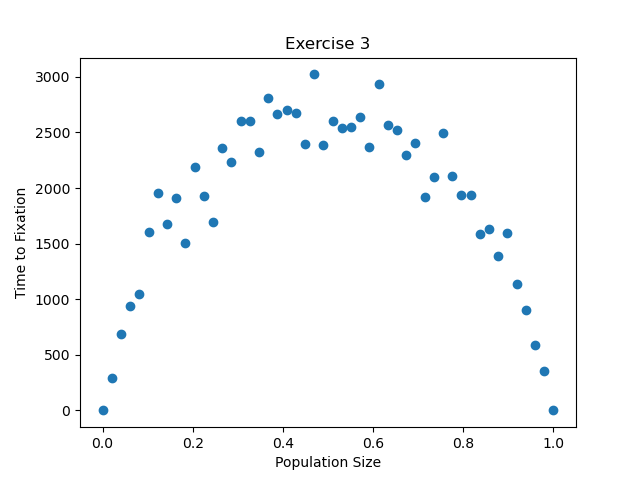
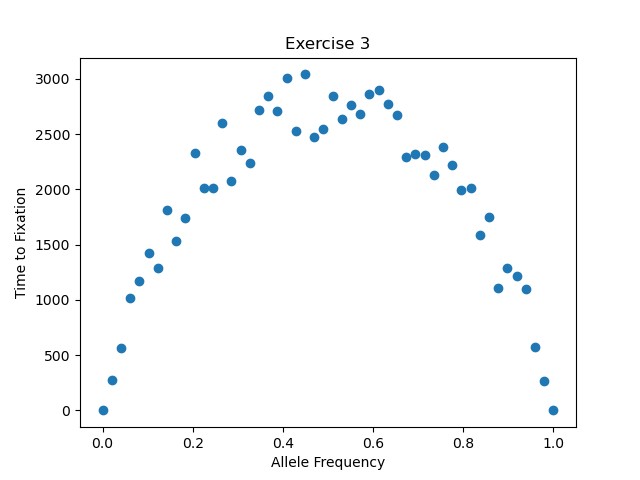
fixed x-axis of scatter plot

diff --git a/day4-homework/Day_4_Exercise_3_part_2.py b/day4-homework/Day_4_Exercise_3_part_2.py
@@ -51,7 +51,7 @@ fig, ax = plt.subplots()
 ax.scatter(allele_freq, averages)
 
 ax.set_title( "Exercise 3" )
-ax.set_xlabel( "Population Size")
+ax.set_xlabel( "Allele Frequency")
 ax.set_ylabel( "Time to Fixation")
 
 fig.savefig( "Day_4_Exercise_3_part_2" )
